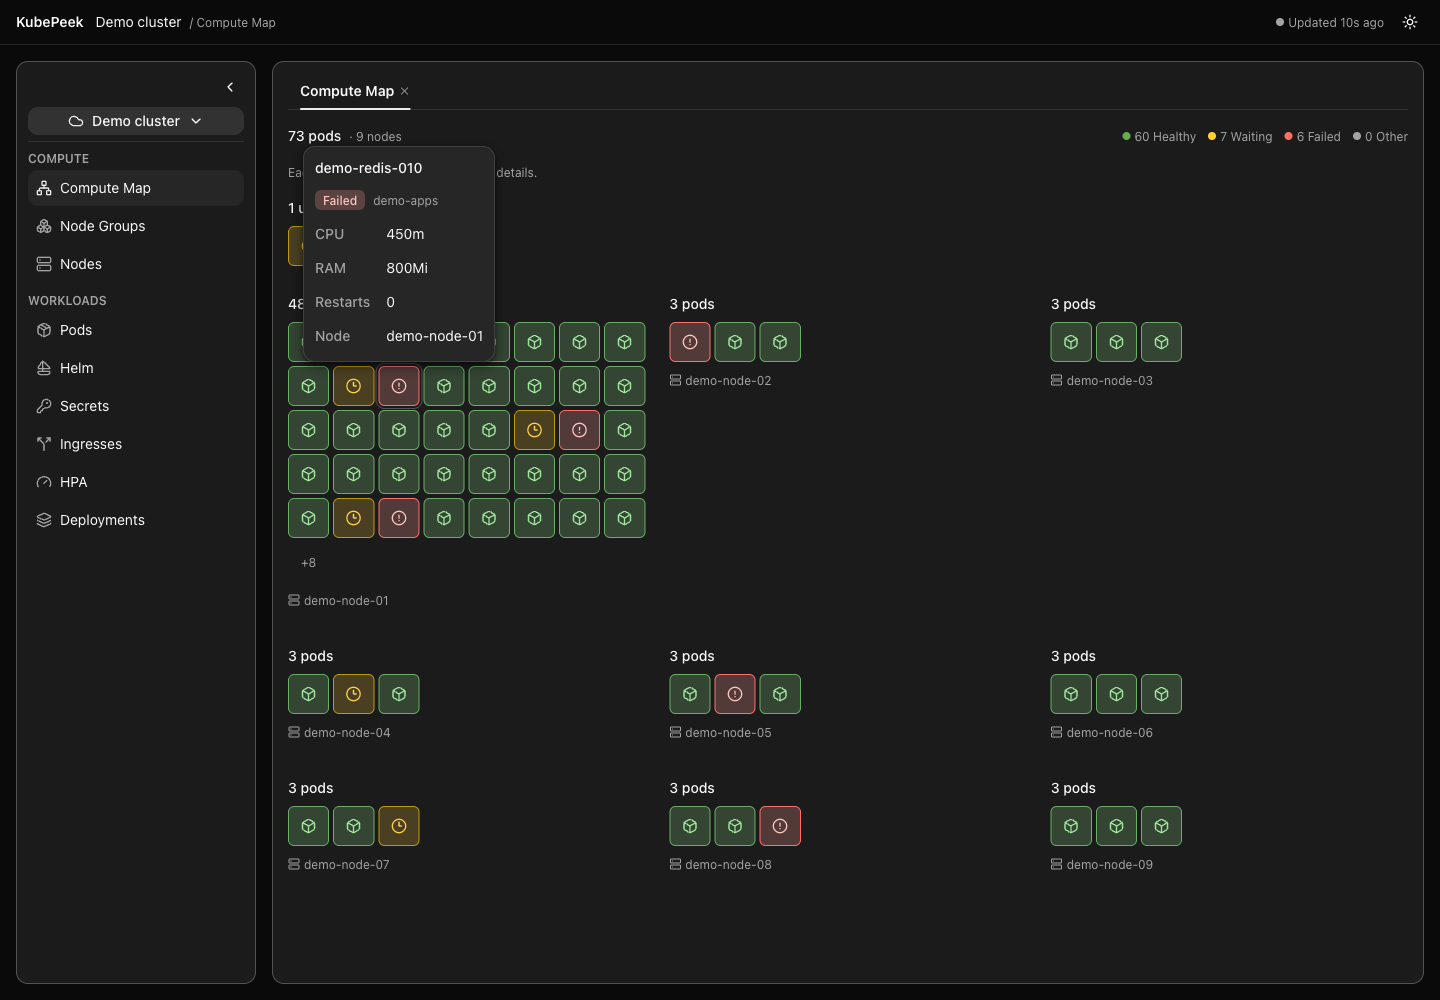
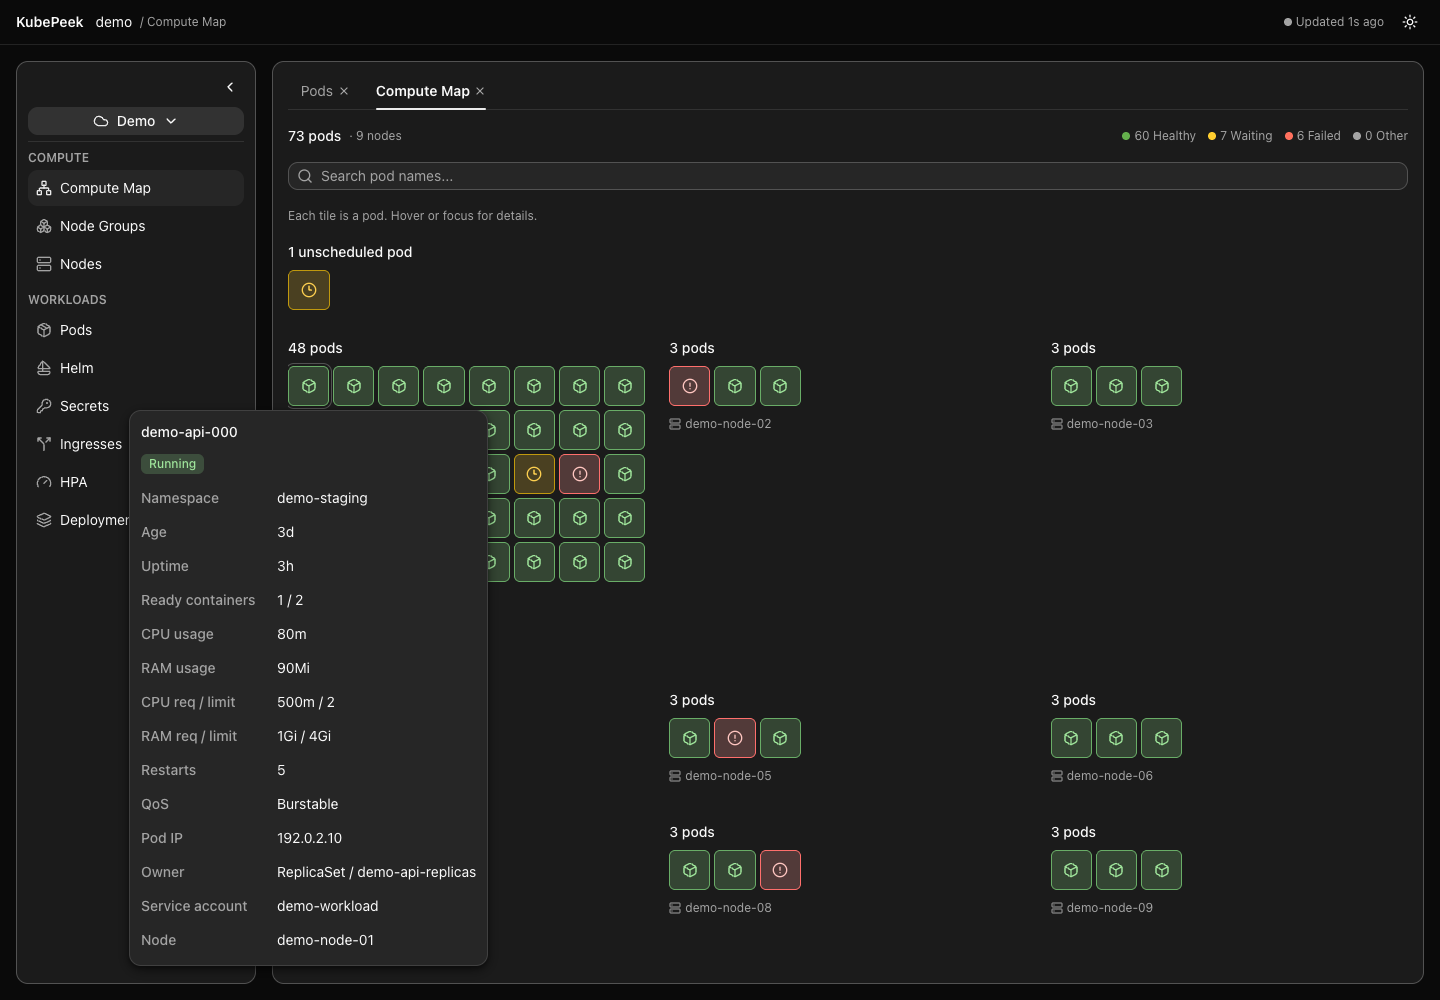
Expand Compute Map pod previews and highlight name searches

diff --git a/app/components/compute/ComputeMapView.tsx b/app/components/compute/ComputeMapView.tsx
@@ -1,6 +1,6 @@
 'use client';
 
-import { memo, useMemo, useState } from 'react';
+import { memo, useMemo, useRef, useState } from 'react';
 import { Box, Clock3, CircleAlert, CircleHelp, Server } from 'lucide-react';
 import { Grid } from '@astryxdesign/core/Grid';
 import { HStack, VStack } from '@astryxdesign/core/Stack';
@@ -10,9 +10,13 @@ import { StatusDot } from '@astryxdesign/core/StatusDot';
 import { HoverCard } from '@astryxdesign/core/HoverCard';
 import { Tooltip } from '@astryxdesign/core/Tooltip';
 import { MetadataList, MetadataListItem } from '@astryxdesign/core/MetadataList';
+import { TextInput } from '@astryxdesign/core/TextInput';
 import { useFetch } from '../../hooks/useFetch';
+import { useFindShortcut } from '../../hooks/useFindShortcut';
 import type { Cluster, Node, Pod } from '../../types/kubernetes';
 import { statusColor, type StatusColor } from '../../lib/status';
+import { formatAge, formatFullTimestamp } from '../../lib/format';
+import { matchesPodName, selectMapPods } from '../../lib/compute-map';
 import PanelState from '../shared/PanelState';
 import StatusChip from '../shared/StatusChip';
 import CapacityChip from '../nodes/CapacityChip';
@@ -32,27 +36,35 @@ const statusLegend = [
   { color: 'gray', label: 'Other', variant: 'neutral' },
 ] as const;
 
-const PodTile = memo(function PodTile({ pod }: { pod: Pod }) {
+const PodTile = memo(function PodTile({ pod, searchMatch }: { pod: Pod; searchMatch?: boolean }) {
   const color = statusColor(pod.status);
   const [previewOpen, setPreviewOpen] = useState(false);
   return (
     <HoverCard hasHoverIndication={false} focusTrigger="always" onOpenChange={setPreviewOpen} content={previewOpen ?
-      <VStack gap={3} maxWidth="calc(var(--spacing-10) * 8)">
+      <VStack gap={3} maxWidth="calc(var(--spacing-10) * 10)" style={{ maxHeight: 'calc(100dvh - var(--spacing-10) * 2)' }} isScrollable>
         <Text type="label" style={{ overflowWrap: 'anywhere' }}>{pod.name}</Text>
-        <HStack gap={2} vAlign="center" wrap="wrap">
-          <StatusChip status={pod.status} />
-          <Text type="supporting" style={{ overflowWrap: 'anywhere' }}>{pod.namespace}</Text>
-        </HStack>
-        <MetadataList>
-          <MetadataListItem label="CPU">{pod.cpuUsage}</MetadataListItem>
-          <MetadataListItem label="RAM">{pod.memoryUsage}</MetadataListItem>
+        <HStack><StatusChip status={pod.status} /></HStack>
+        <MetadataList label={{ position: 'start', width: 'calc(var(--spacing-10) * 3)' }}>
+          <MetadataListItem label="Namespace"><Text type="body" style={{ overflowWrap: 'anywhere' }}>{pod.namespace}</Text></MetadataListItem>
+          <MetadataListItem label="Age"><Tooltip content={`Created: ${formatFullTimestamp(pod.createdAt)}`}><Text type="body">{pod.createdAt ? formatAge(pod.createdAt) : pod.creationTimestamp}</Text></Tooltip></MetadataListItem>
+          <MetadataListItem label="Uptime"><Tooltip content={pod.runningSince ? `Oldest currently running container started: ${formatFullTimestamp(pod.runningSince)}` : 'No running container start time available'}><Text type="body">{formatAge(pod.runningSince)}</Text></Tooltip></MetadataListItem>
+          <MetadataListItem label="Ready containers">{pod.containerCount !== undefined ? `${pod.readyContainers ?? 0} / ${pod.containerCount}` : '—'}</MetadataListItem>
+          <MetadataListItem label="CPU usage">{pod.cpuUsage}</MetadataListItem>
+          <MetadataListItem label="RAM usage">{pod.memoryUsage}</MetadataListItem>
+          <MetadataListItem label="CPU req / limit">{pod.cpuRequest || '—'} / {pod.cpuLimit || '—'}</MetadataListItem>
+          <MetadataListItem label="RAM req / limit">{pod.memoryRequest || '—'} / {pod.memoryLimit || '—'}</MetadataListItem>
           <MetadataListItem label="Restarts">{pod.restarts ?? '—'}</MetadataListItem>
+          <MetadataListItem label="QoS">{pod.qosClass || '—'}</MetadataListItem>
+          <MetadataListItem label="Pod IP">{pod.podIP || '—'}</MetadataListItem>
+          <MetadataListItem label="Owner"><Text type="body" style={{ overflowWrap: 'anywhere' }}>{pod.owner ? `${pod.owner.kind} / ${pod.owner.name}` : '—'}</Text></MetadataListItem>
+          <MetadataListItem label="Service account"><Text type="body" style={{ overflowWrap: 'anywhere' }}>{pod.serviceAccountName || '—'}</Text></MetadataListItem>
           <MetadataListItem label="Node"><Text type="body" style={{ overflowWrap: 'anywhere' }}>{pod.nodeName && pod.nodeName !== 'unknown' ? pod.nodeName : 'Unscheduled'}</Text></MetadataListItem>
         </MetadataList>
       </VStack> : null
     }>
       <VStack className="kp-pod-tile" role="img" tabIndex={0}
-        aria-label={`${pod.namespace}/${pod.name}: ${pod.status}`}
+        data-search-match={searchMatch}
+        aria-label={`${pod.namespace}/${pod.name}: ${pod.status}${searchMatch ? ', search match' : ''}`}
         width="100%" height="var(--spacing-10)" hAlign="center" vAlign="center" style={statusStyles[color]}>
         <Icon icon={statusGlyph[color]} size="sm" />
       </VStack>
@@ -60,14 +72,16 @@ const PodTile = memo(function PodTile({ pod }: { pod: Pod }) {
   );
 });
 
-function PodTiles({ pods }: { pods: Pod[] }) {
+function PodTiles({ pods, query }: { pods: Pod[]; query: string }) {
+  const { visible } = useMemo(() => selectMapPods(pods, query, MAX_PODS), [pods, query]);
+  const remaining = pods.length - visible.length;
   return (
     <Grid columns={{ minWidth: 40 }} gap={1} align="start">
-      {pods.slice(0, MAX_PODS).map((pod) => <PodTile key={`${pod.namespace}/${pod.name}`} pod={pod} />)}
-      {pods.length > MAX_PODS && (
-        <Tooltip content={`${pods.length - MAX_PODS} additional pods in this group`}>
+      {visible.map((pod) => <PodTile key={`${pod.namespace}/${pod.name}`} pod={pod} searchMatch={query ? matchesPodName(pod, query) : undefined} />)}
+      {remaining > 0 && (
+        <Tooltip content={`${remaining} additional ${query ? 'nonmatching ' : ''}pods in this group`}>
           <VStack height="var(--spacing-10)" hAlign="center" vAlign="center">
-            <Text type="supporting">+{pods.length - MAX_PODS}</Text>
+            <Text type="supporting">+{remaining}</Text>
           </VStack>
         </Tooltip>
       )}
@@ -100,19 +114,25 @@ function NodeCaption({ node, name }: { node?: Node; name: string }) {
   );
 }
 
-const PodGroup = memo(function PodGroup({ pods, node, name }: { pods: Pod[]; node?: Node; name: string }) {
+const PodGroup = memo(function PodGroup({ pods, node, name, query }: { pods: Pod[]; node?: Node; name: string; query: string }) {
+  const matchCount = query ? pods.filter(pod => matchesPodName(pod, query)).length : 0;
   return (
     <VStack gap={2} paddingBlock={3} style={{ minWidth: 0 }}>
-      <Text type="label">{pods.length} {pods.length === 1 ? 'pod' : 'pods'}</Text>
-      <PodTiles pods={pods} />
+      <Text type="label">{pods.length} {pods.length === 1 ? 'pod' : 'pods'}{query ? ` · ${matchCount} ${matchCount === 1 ? 'match' : 'matches'}` : ''}</Text>
+      <PodTiles pods={pods} query={query} />
       <NodeCaption node={node} name={name} />
     </VStack>
   );
 });
 
 export default function ComputeMapView({ cluster, nodes }: { cluster: Cluster; nodes: Node[] }) {
+  const [searchQuery, setSearchQuery] = useState('');
+  const searchRef = useRef<HTMLInputElement>(null);
+  useFindShortcut(searchRef);
+  const query = searchQuery.trim().toLowerCase();
   const podsQ = useFetch<Pod[]>(`/api/clusters/${encodeURIComponent(cluster.name)}/pods`);
   const podCount = podsQ.data?.length ?? 0;
+  const matchCount = useMemo(() => query ? (podsQ.data || []).filter(pod => matchesPodName(pod, query)).length : 0, [podsQ.data, query]);
   const { groups, unscheduled, counts, emptyNodeCount } = useMemo(() => {
     const byNode = new Map<string, Pod[]>();
     const unscheduled: Pod[] = [];
@@ -150,15 +170,18 @@ export default function ComputeMapView({ cluster, nodes }: { cluster: Cluster; n
             ))}
           </HStack>
         </HStack>
+        <TextInput label="Search pod names" isLabelHidden size="sm" placeholder="Search pod names..." startIcon="search" hasClear
+          ref={searchRef} value={searchQuery} onChange={setSearchQuery} />
+        {query && <Text type="supporting" role="status" aria-live="polite">{matchCount ? `${matchCount} matching ${matchCount === 1 ? 'pod' : 'pods'} highlighted across all nodes.` : `No pods match “${searchQuery.trim()}”.`}</Text>}
         <Text type="supporting" size="2xs">Each tile is a pod. Hover or focus for details.</Text>
         {unscheduled.length > 0 && (
           <VStack gap={2} maxWidth="calc(var(--spacing-10) * 8)">
             <Text type="label">{unscheduled.length} unscheduled {unscheduled.length === 1 ? 'pod' : 'pods'}</Text>
-            <PodTiles pods={unscheduled} />
+            <PodTiles pods={unscheduled} query={query} />
           </VStack>
         )}
         <Grid columns={{ minWidth: 280 }} columnGap={6} rowGap={3} align="start">
-          {groups.map((group) => <PodGroup key={group.name} {...group} />)}
+          {groups.map((group) => <PodGroup key={group.name} {...group} query={query} />)}
         </Grid>
         {emptyNodeCount > 0 && <Text type="supporting" size="2xs">{emptyNodeCount} {emptyNodeCount === 1 ? 'node has' : 'nodes have'} no pods</Text>}
       </VStack>

diff --git a/app/lib/kubernetes-server.ts b/app/lib/kubernetes-server.ts
@@ -791,6 +791,17 @@ export const getPods = async (
           0
         );
 
+        // Kubelet acknowledgement (status.startTime) is not running uptime.
+        // Use only current running states, excluding previous and init states.
+        const containerStatuses = pod.status?.containerStatuses || [];
+        const runningStarts = containerStatuses.flatMap(({ state }) => {
+          const startedAt = state?.running?.startedAt;
+          const timestamp = startedAt ? new Date(startedAt).getTime() : NaN;
+          return Number.isFinite(timestamp) ? [timestamp] : [];
+        });
+        const owner = pod.metadata?.ownerReferences?.find(ref => ref.controller)
+          || pod.metadata?.ownerReferences?.[0];
+
         // Aggregate requests/limits across containers.
         const res = sumPodResources(pod.spec?.containers);
 
@@ -859,6 +870,13 @@ export const getPods = async (
           nodeGroup: nodeInfo?.nodeGroup || 'unknown',
           creationTimestamp: age,
           createdAt: creationTime,
+          runningSince: runningStarts.length ? new Date(Math.min(...runningStarts)).toISOString() : undefined,
+          readyContainers: containerStatuses.filter(container => container.ready).length,
+          containerCount: pod.spec?.containers?.length,
+          qosClass: pod.status?.qosClass,
+          podIP: pod.status?.podIP,
+          owner: owner ? { kind: owner.kind, name: owner.name } : undefined,
+          serviceAccountName: pod.spec?.serviceAccountName,
           restarts,
           cpuRequest: res.cpuRequest > 0 ? formatCpuForDisplay(res.cpuRequest.toString()) : undefined,
           cpuLimit: res.cpuLimit > 0 ? formatCpuForDisplay(res.cpuLimit.toString()) : undefined,

diff --git a/app/lib/compute-map.ts b/app/lib/compute-map.ts
@@ -1,0 +1,17 @@
+import type { Pod } from '../types/kubernetes';
+
+export const matchesPodName = (pod: Pod, query: string): boolean =>
+  pod.name.toLowerCase().includes(query);
+
+// Keep the normal tile budget, but never hide a search match behind overflow.
+// Every group stays on the map; matching tiles lead their existing group.
+export function selectMapPods(pods: Pod[], query: string, limit: number) {
+  if (!query) return { visible: pods.slice(0, limit), matchCount: 0 };
+  const matches: Pod[] = [];
+  const others: Pod[] = [];
+  for (const pod of pods) (matchesPodName(pod, query) ? matches : others).push(pod);
+  return {
+    visible: [...matches, ...others.slice(0, Math.max(0, limit - matches.length))],
+    matchCount: matches.length,
+  };
+}

diff --git a/app/types/kubernetes.ts b/app/types/kubernetes.ts
@@ -62,6 +62,13 @@ export interface Pod {
   nodeGroup?: string;
   creationTimestamp: string; // relative age string, e.g. "2d" (kept for back-compat)
   createdAt?: string; // ISO timestamp
+  runningSince?: string; // Oldest start of a currently running regular container
+  readyContainers?: number;
+  containerCount?: number;
+  qosClass?: string;
+  podIP?: string;
+  owner?: { kind: string; name: string };
+  serviceAccountName?: string;
   restarts?: number;
   cpuRequest?: string; // formatted, e.g. "100m"
   cpuLimit?: string;

diff --git a/app/globals.css b/app/globals.css
@@ -87,6 +87,16 @@ body {
   outline: var(--border-width) solid var(--color-border-emphasized);
   outline-offset: var(--spacing-0-5);
 }
+.kp-pod-tile[data-search-match="true"] {
+  box-shadow: 0 0 0 var(--spacing-0-5) var(--color-border-emphasized);
+}
+.kp-pod-tile[data-search-match="false"] {
+  opacity: 0.35;
+}
+.kp-pod-tile[data-search-match="false"]:hover,
+.kp-pod-tile[data-search-match="false"]:focus-visible {
+  opacity: 1;
+}
 
 /* Custom scrollbar for webkit browsers */
 ::-webkit-scrollbar {

diff --git a/docs/architecture.md b/docs/architecture.md
@@ -30,7 +30,7 @@ kubeconfig  +  Kubernetes API  +  metrics.k8s.io  +  release Secrets
 - `app/components/` holds the UI, grouped by area: `nodes/`, `pods/`, `compute/`, `logs/`, `secrets/`, `helm/`, `workloads/` (Deployments, Ingresses, HPA), and `shared/` (reused primitives: `UsageBar`, `TabPanel`, `StatusChip`, `CopyButton`, `PanelState`, plus `ScopePicker` — the namespace/node gate shown before scoped views load — and `ReconnectBanner`).
 - `app/hooks/useFetch.ts` resets data immediately when the URL changes, aborts obsolete requests, and lazily enables requests with a non-null URL. Background refresh keeps rows and exposes `isRefreshing`, `lastUpdated`, and `refreshError`. Polling skips requests in flight, hidden windows, and expired credentials; visibility restoration refreshes immediately. Only the active tab polls, controlled by `RefreshContext`: nodes/pods and open pod details every 15 seconds, resource lists and open pod events every 30 seconds, Compute Map every 45 seconds. Decoded secret values are fetched manually on reveal and cleared when the dialog closes. Pod logs use manual fetch/refresh rather than polling.
 - Node groups are derived client-side from the shared nodes response in `lib/node-groups.ts`, avoiding a duplicate node/metrics scrape. CPU uses capacity and memory keeps the existing allocatable denominator. Purchasing tokens come from provider node labels via `lib/capacity-type.ts`; unsupported or absent labels stay unknown. Reservation billing coverage is deferred.
-- `compute/ComputeMapView.tsx` combines that nodes response with one cluster-wide pods read. Pods are the primary surface: capped, status-colored tiles grouped by occupied node (busiest first), with hover/focus metadata. Node details live in hover cards on small captions. Preview metadata mounts only while open. Empty nodes are summarized, unscheduled pods are shown separately, and pods whose node is missing from the nodes response are retained. The map has no pod/node actions and does not load namespaces. `Header` lives in Dashboard and shows the cluster, view, scope, and refresh freshness, with Electron drag regions and native traffic-light clearance.
+- `compute/ComputeMapView.tsx` combines that nodes response with one cluster-wide pods read. Pods are the primary surface: normally capped, status-colored tiles grouped by occupied node (busiest first), with hover/focus metadata. Name search highlights matches without filtering groups; `lib/compute-map.ts` prioritizes matching tiles and exempts them from the display cap. Preview fields come from the existing pod list, including current container start times for uptime, readiness, ownership and network/resource specifications; no per-pod requests are needed. Node details live in hover cards on small captions. Preview metadata mounts only while open. Empty nodes are summarized, unscheduled pods are shown separately, and pods whose node is missing from the nodes response are retained. The map has no pod/node actions and does not load namespaces. `Header` lives in Dashboard and shows the cluster, view, scope, and refresh freshness, with Electron drag regions and native traffic-light clearance.
 - `app/hooks/useFindShortcut.ts` binds Cmd/Ctrl+F to a search input ref. It ignores inputs inside `display: none` subtrees (`offsetParent === null`), so with several tabs mounted only the visible one claims the shortcut; drawers/dialogs mount later and win while open.
 - Scoped views (Pods, Helm, Secrets, Deployments, Ingresses, HPA) render a `ScopePicker` until a namespace/node is chosen; **Reconnect** simply refetches the enabled queries (which re-runs `aws eks get-token`).
 - `app/lib/format.ts` centralizes numeric parsing, usage-color thresholds, and age formatting. `app/lib/log-parsing.ts` parses log lines and flattens JSON fields for the logs fields filter.

diff --git a/docs/features.md b/docs/features.md
@@ -50,14 +50,17 @@ When cluster credentials expire, KubePeek shows a **Reconnect** banner and pause
 
 - A read-only cluster overview under **Compute**, available without selecting a namespace.
 - **Pods lead the view**: large status-colored tiles, a prominent total and status counts. Healthy pods use green, waiting pods yellow, failure states red, and other states gray; different glyphs also distinguish these categories.
-- Hover or keyboard-focus a pod for its full name, namespace, status, CPU/RAM, restart count and assigned node.
+- Hover or keyboard-focus a pod for its full name, namespace, age, uptime, ready/total containers, CPU/RAM usage and requests/limits, restarts, QoS, pod IP, owner, service account and assigned node. Uptime measures time since the oldest currently running regular container started; missing start times show `—`.
+- **Search pod names** across every namespace and node using a case-insensitive substring. Matching tiles have a bright outline; other pods are dimmed while all node groups remain visible. The total match count updates with live data. Cmd/Ctrl+F focuses search; clear it to restore the normal map.
 - Pods are grouped by node, with the busiest groups first. Node names are small supporting captions below the tiles; hover or focus a caption for instance type, group, purchasing label and node CPU/RAM.
-- Each group displays up to 40 pod tiles, followed by a remaining-count indicator. Unscheduled pods appear before the scheduled groups. Empty nodes are summarized rather than taking space in the main map, and pods remain visible if their node details are unavailable.
+- Each group normally displays up to 40 pod tiles, followed by a remaining-count indicator. During search, matches lead each group and **every matching pod is displayed**, including matches beyond the normal limit. Unscheduled pods appear before the scheduled groups and participate in search. Empty nodes are summarized rather than taking space in the main map, and pods remain visible if their node details are unavailable.
 - There are no node or pod actions in this view. It reads cluster-wide pods, independently of the scoped Pods table.
 
 ![Compute Map with prominent pod tiles and supporting node captions](../assets/showcase.png)
 
-![Pod hover preview showing status, namespace, CPU, RAM, restarts and assigned node](../assets/compute-map-hover.png)
+![Pod hover preview with namespace, age, uptime, container readiness and pod specifications](../assets/compute-map-hover.png)
+
+![Pod name search highlighting matches across node groups](../assets/compute-map-search.png)
 
 <details>
 <summary>Compute Map in light mode</summary>

diff --git a/README.md b/README.md
@@ -93,14 +93,16 @@ Open [localhost:3000](http://localhost:3000). Your cluster's API address must be
 
 ## Compute Map
 
-Pods lead the overview: status-colored tiles, pod totals and information on hover or keyboard focus. Node captions provide context, with capacity and usage available in their previews. Unscheduled pods remain visible, and missing metrics show `n/a`.
+Pods lead the overview: status-colored tiles, pod totals and detailed specifications on hover or keyboard focus, including namespace, age, uptime and resource requests/limits. Search pod names to highlight every match across all nodes and namespaces. Node captions provide context, with capacity and usage available in their previews. Unscheduled pods remain visible, and missing metrics show `n/a`.
 
 The map refreshes while active and pauses while the window is hidden. It provides information without node or pod actions.
 
 <details>
 <summary>Pod hover details and light theme</summary>
 
-![Pod hover preview with namespace, status, CPU, memory, restart count and assigned node](assets/compute-map-hover.png)
+![Pod hover preview with namespace, age, uptime and pod specifications](assets/compute-map-hover.png)
+
+![Pod name search highlighting matches across node groups](assets/compute-map-search.png)
 
 ![Compute Map in light mode](assets/compute-map-light.png)
 

diff --git a/docs/development.md b/docs/development.md
@@ -94,7 +94,7 @@ Notes:
 
 ## Documentation screenshots
 
-`assets/showcase.png` is the README's Compute Map overview. `assets/compute-map-light.png` shows the light theme, and `assets/compute-map-hover.png` shows pod information on hover. `assets/node-groups.png`, `assets/nodes.png`, `assets/pods.png`, `assets/secrets.png` and `assets/helm.png` illustrate the other views. These are direct captures of the production browser UI using fictional demo data; secret values stay masked.
+`assets/showcase.png` is the README's Compute Map overview. `assets/compute-map-light.png` shows the light theme, `assets/compute-map-hover.png` shows pod specifications on hover, and `assets/compute-map-search.png` shows name matches across node groups. `assets/node-groups.png`, `assets/nodes.png`, `assets/pods.png`, `assets/secrets.png` and `assets/helm.png` illustrate the other views. These are direct captures of the production browser UI using fictional demo data; secret values stay masked.
 
 Start the screenshot server with an explicit `KUBECONFIG` pointing only to a synthetic API fixture on loopback. Use obvious demo labels such as `Demo cluster`, `demo-node-01` and `demo-apps`; do not capture a live cluster or rely on the default personal kubeconfig. Keep secret values masked even when the fixture contains dummy values.
 
